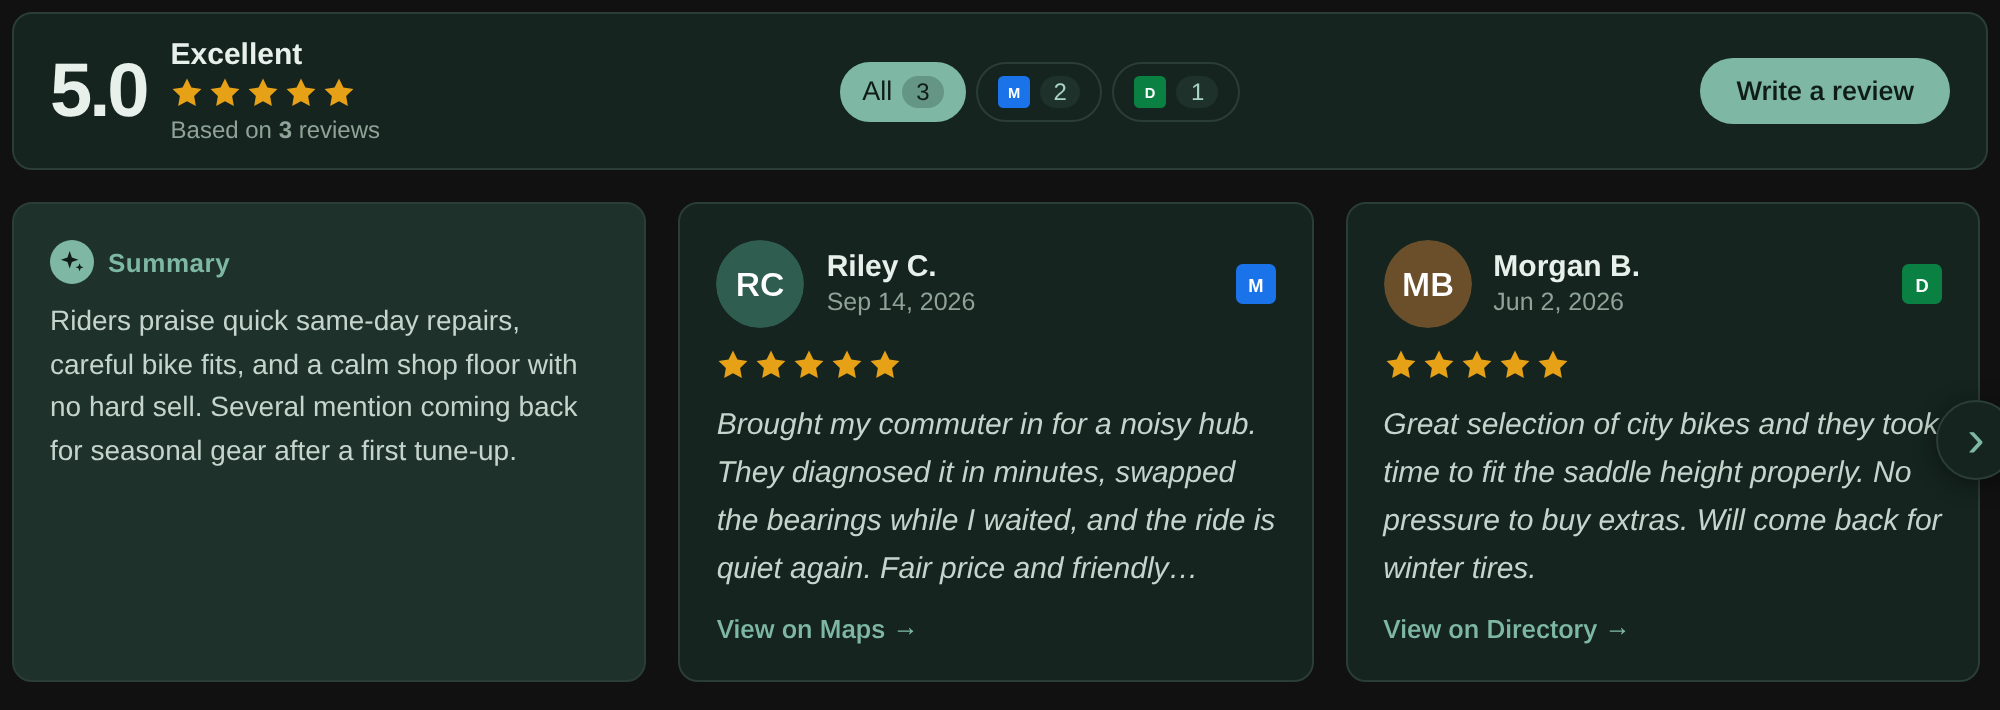
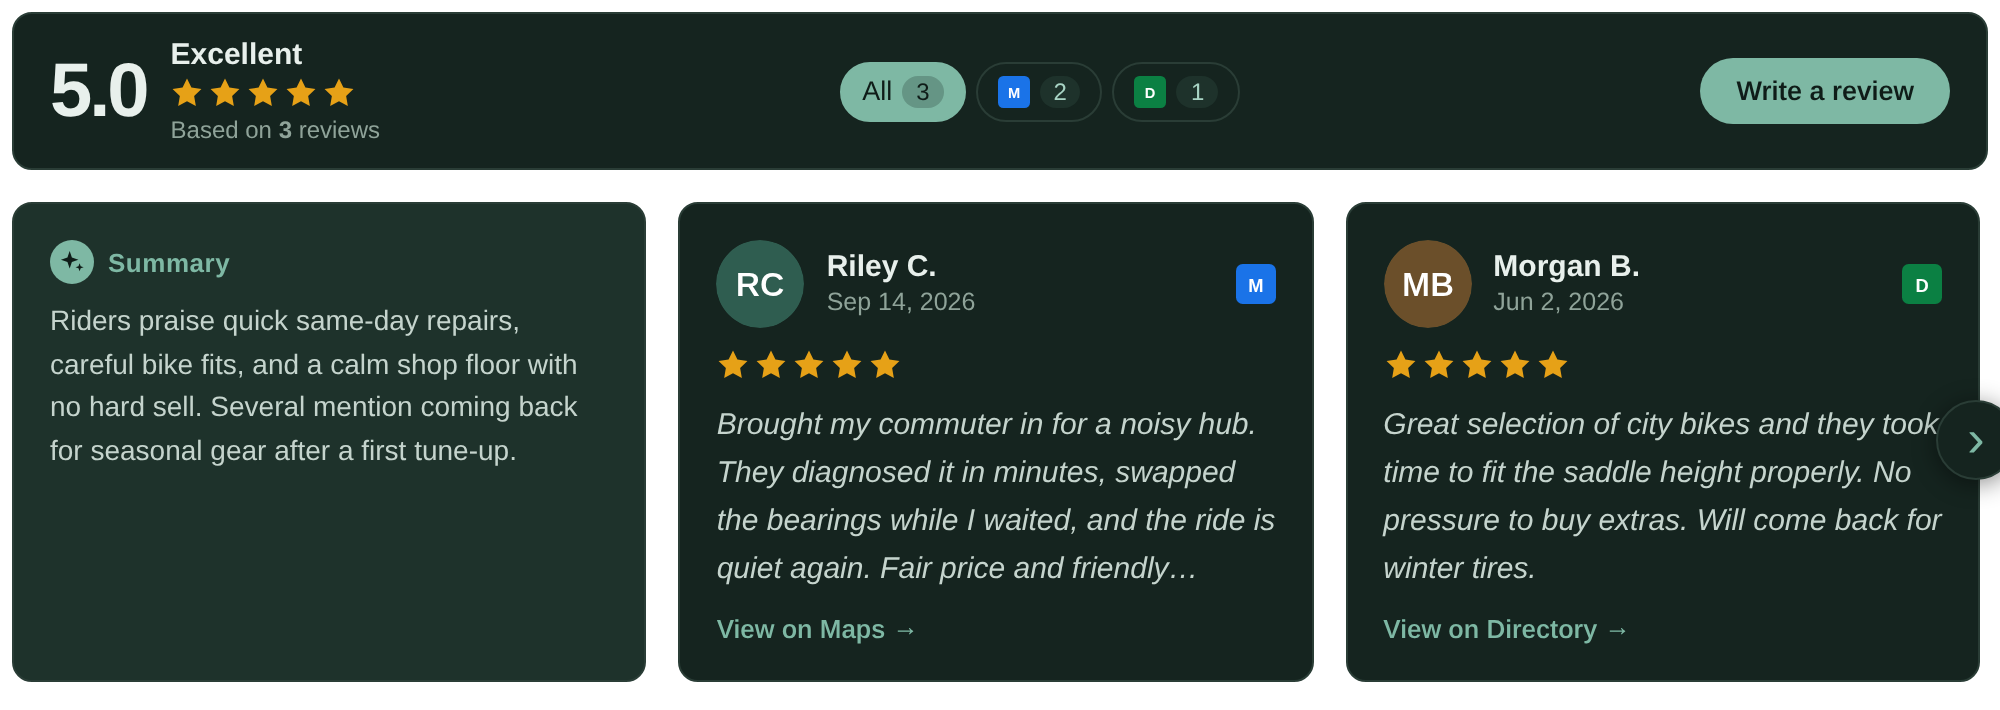
README: <picture> light/dark screenshots from live example

Changed region(s): [[0.0, 0.0, 1.0, 1.0]]

diff --git a/README.md b/README.md
@@ -4,7 +4,12 @@
 
 **<a href="https://bristweb.github.io/reviews-widget/?source=https://bristweb.github.io/reviews-widget/example/" target="_blank" rel="noopener">Open the demo</a>** · **<a href="https://bristweb.github.io/reviews-widget/embed.html?source=https://bristweb.github.io/reviews-widget/example/" target="_blank" rel="noopener">iframe version</a>** · **<a href="https://bristweb.github.io/reviews-widget/embed.html?source=https://bristweb.github.io/reviews-widget/example/&constrained=true" target="_blank" rel="noopener">constrained / fixed-height box</a>**
 
-<a href="https://bristweb.github.io/reviews-widget/?source=https://bristweb.github.io/reviews-widget/example/" target="_blank" rel="noopener"><img src="docs/example-widget.png" alt="Live example: Northwind Cycles (fictional bike shop)" /></a>
+<a href="https://bristweb.github.io/reviews-widget/?source=https://bristweb.github.io/reviews-widget/example/" target="_blank" rel="noopener">
+<picture>
+  <source media="(prefers-color-scheme: dark)" srcset="docs/example-widget-dark.png" />
+  <img src="docs/example-widget.png" alt="Live example: Northwind Cycles (fictional bike shop)" />
+</picture>
+</a>
 
 ```html
 <script src="https://bristweb.github.io/reviews-widget/assets/js/reviews-widget.js"
@@ -319,7 +324,8 @@ index.html, embed.html        demos (default data-source: example/)
 example/                      fictional sample data
 schemas/*.schema.json         config + reviews JSON Schema
 scripts/validate.mjs          Ajv + filesystem checks
-docs/example-widget.png       README screenshot of example/
+docs/example-widget.png       README screenshot (light)
+docs/example-widget-dark.png  README screenshot (dark, via <picture>)
 COMPARISON.md                 named product comparison
 .github/workflows/            check (this repo) + reusable validate
 ```
